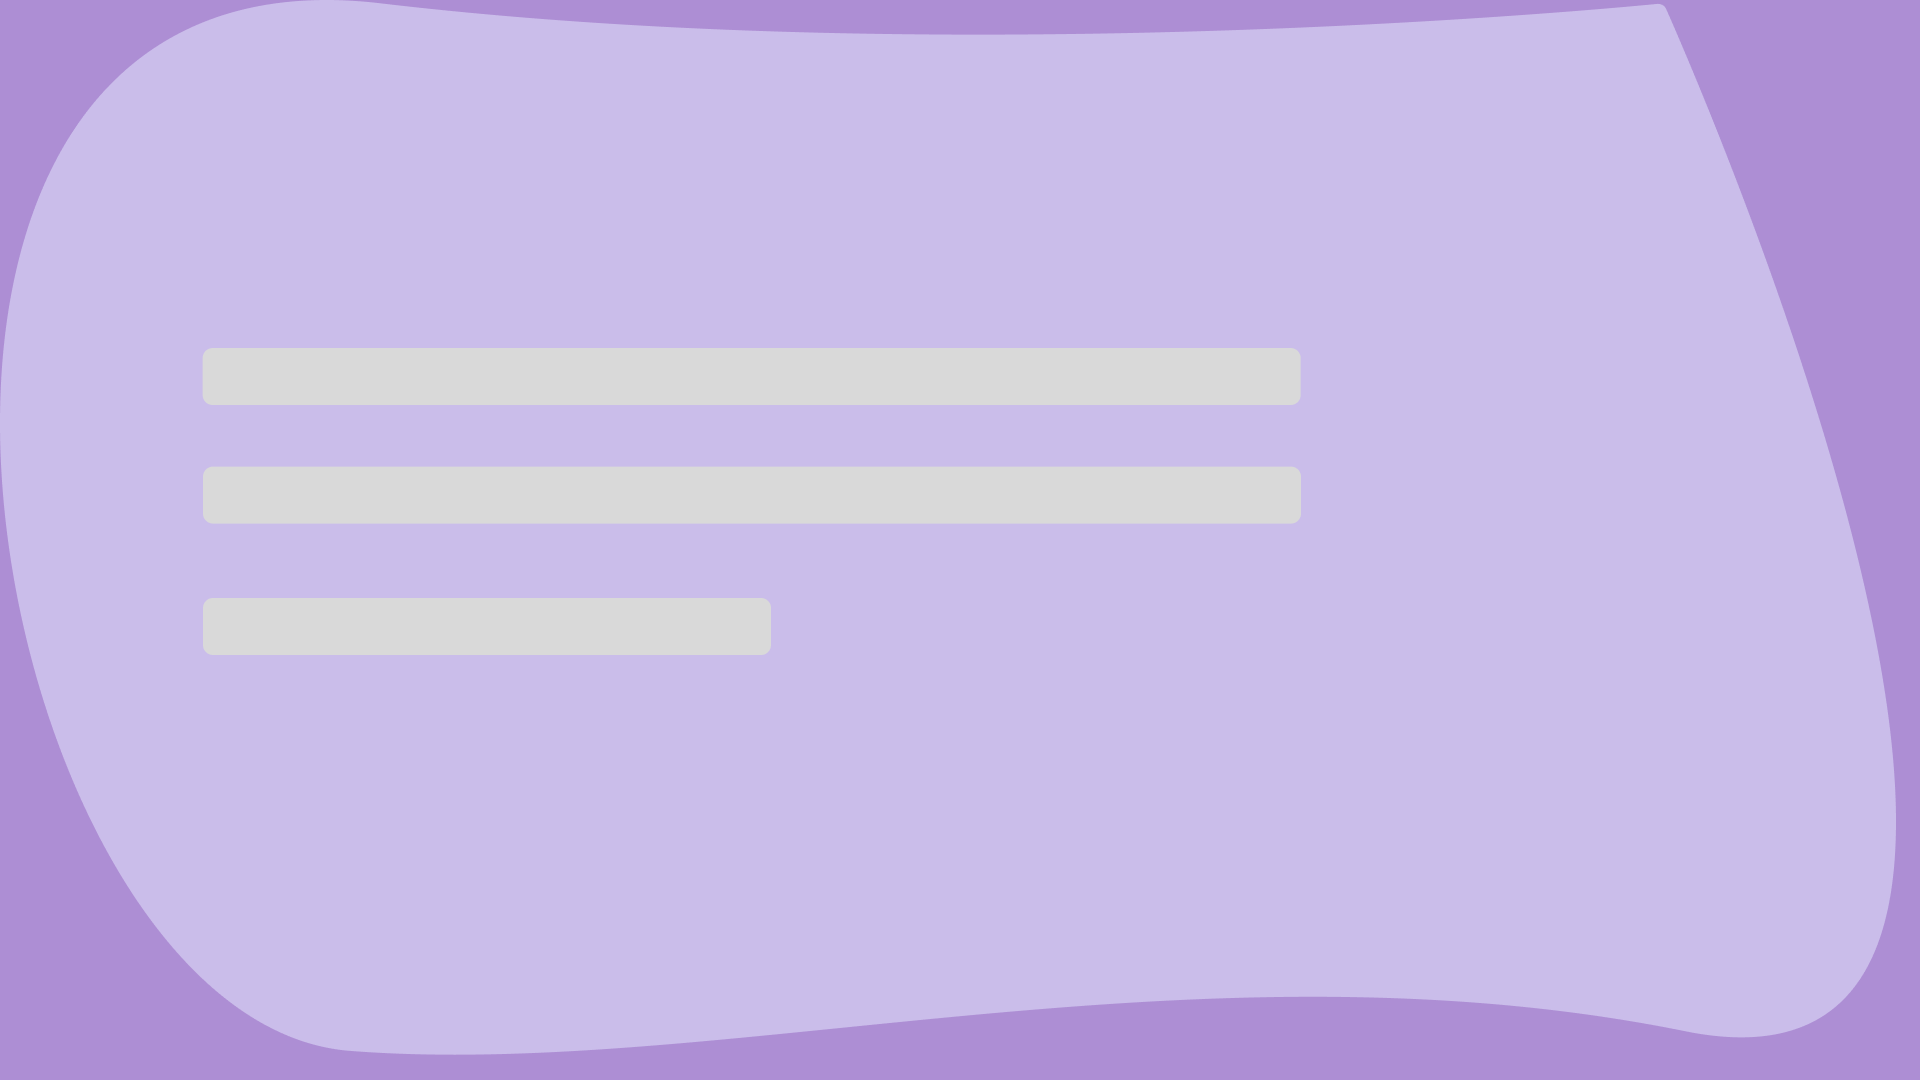
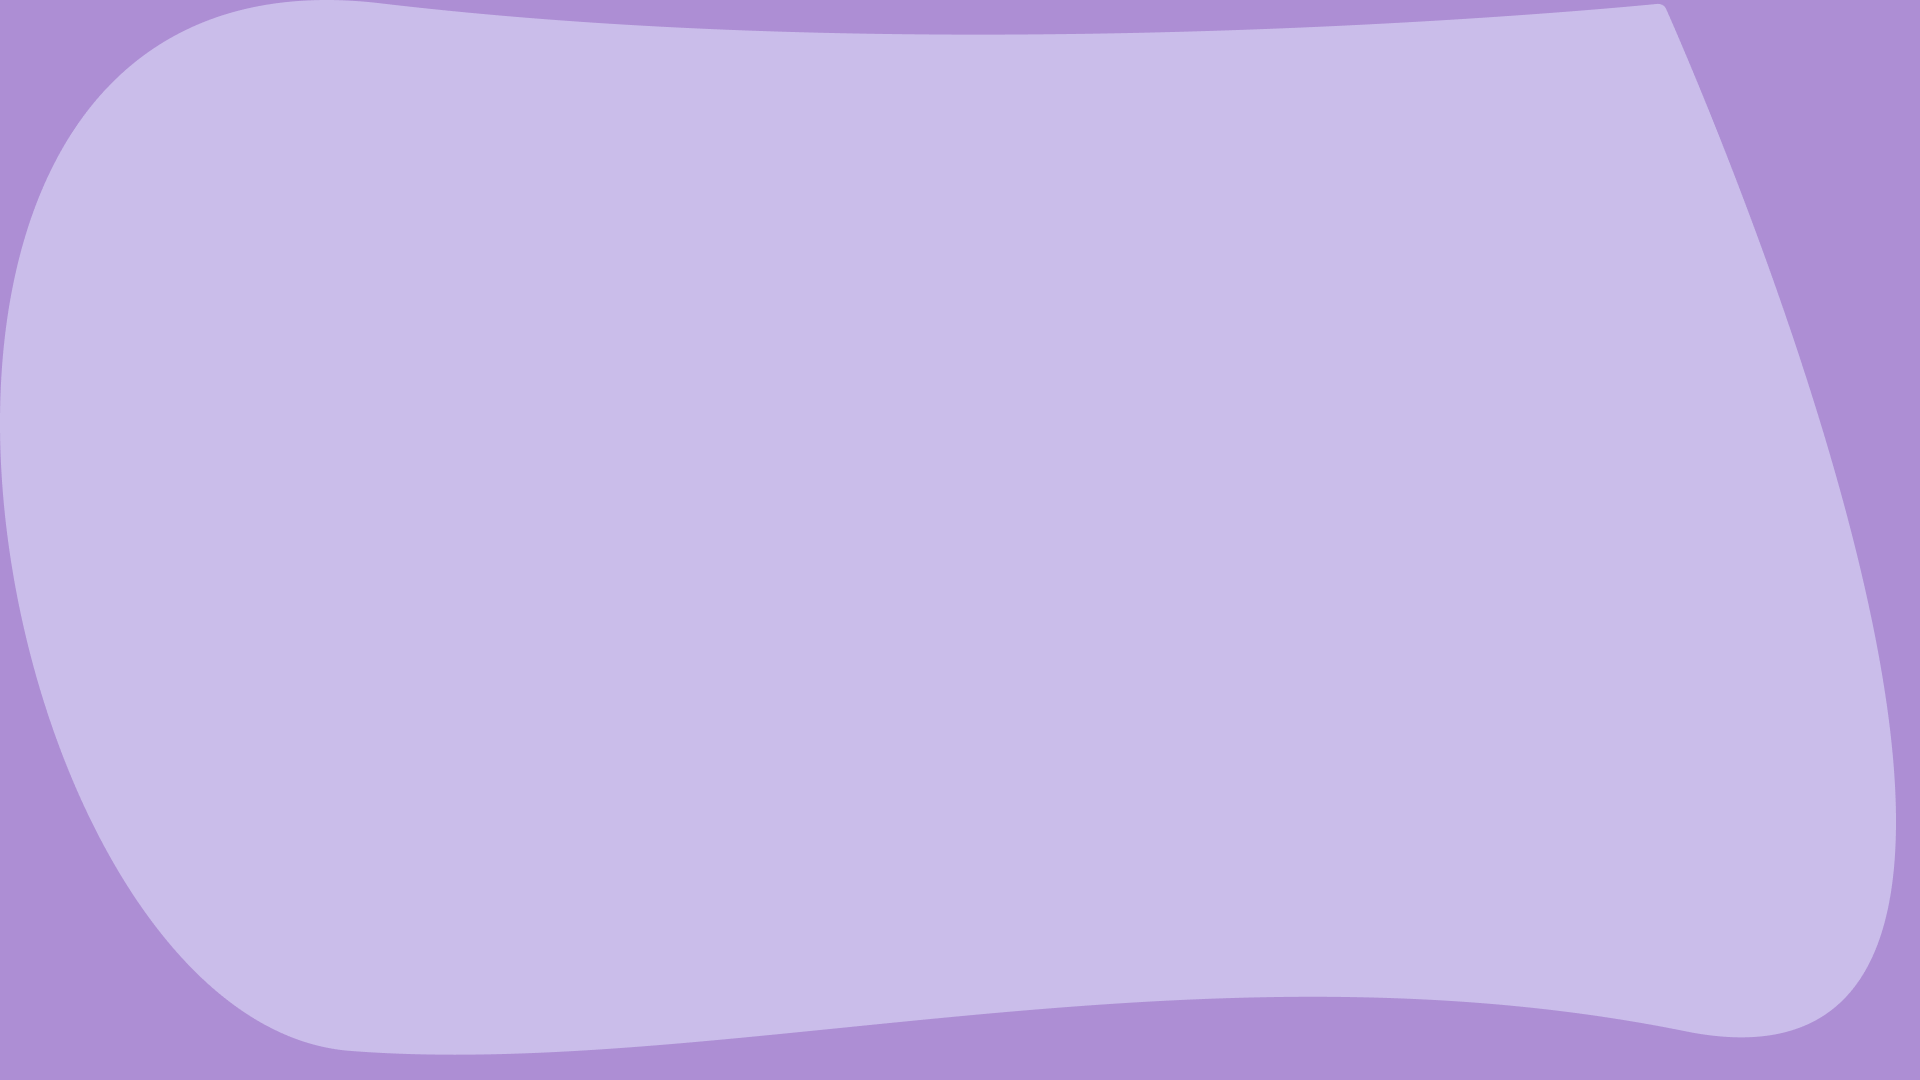
тест 2

Changed region(s): [[0.0938, 0.3056, 0.6875, 0.3972], [0.0938, 0.4278, 0.6875, 0.4889], [0.0938, 0.55, 0.4062, 0.6111]]

diff --git a/react_app/src/styles/App.css b/react_app/src/styles/App.css
@@ -12,20 +12,34 @@
 
 .App {
     width: 800px;
+    margin-left: 50px;
 }
 
 .post {
-    display: flex;
-    padding: 15px;
-    margin-top: 15px;
-    justify-content: space-evenly;
+    width: 100%;
+    position: relative;
+    top: -80px;
+    padding: 12px 20px;
+    margin: 0px 180px;
+    font-size: 30px;
+    font-family: "Times New Roman";
+    color: rgba(09, 11, 33, 0.658);
     
 }
 
+
 .bttn {
-    float: right;
-    margin-top: 30px;
+    
+    margin-top: -250px;
+    margin-left: 680px;
+    height: 60px;
+    width: 300px;
+    cursor: pointer;
+    background-color: rgb(17, 27, 71);
+    color: white;
+    font-size: 25px;
 }
+
 
 html {
     background-image: url(CHECK.png);
@@ -37,3 +51,39 @@ html {
     -o-background-size: cover;
     background-size: cover;
   }
+
+.input {
+    padding-left: 15px;
+    width: 1200px;
+    height: 50px;
+    border: 4px ;
+    background-color: rgb(217, 217, 217);
+    border-radius: 20px;
+    font-size: 30px;
+    font-family: "Times New Roman";
+    color: rgb(09, 11, 33);
+    
+}
+
+.Title {
+    text-align: center;
+    margin-left: 50%;
+    
+    top: -10px;
+    font-size: 50px;
+    font-family: "Times New Roman";
+    color: rgb(09, 11, 33);
+}
+
+.showStatus {
+    margin-left: 560px;
+    width: 500px;
+    margin-top: 70px;
+    font-size: 30px;
+    font-family: "Times New Roman";
+    color: rgb(09, 11, 33);
+    background-color: rgb(217, 217, 217);
+    height: 80px;
+    padding: 30px;
+    border-radius: 20px;
+}

diff --git a/react_app/src/App.js b/react_app/src/App.js
@@ -1,19 +1,38 @@
-import React, {useState} from "react";
+import React from "react";
 import PostItem from "./components/PostItem";
 import "./styles/App.css";
 
 function App() {
 
+  // function status () {
+  //     <div >
+  //     <PostItem post = {{body: 'Статус адреса' }}/>
+  //     <PostItem post = {{body: 'Статус билета' }}/>
+  //     </div>
+  // }
+
+  
+
   return (
     <div className="App">
       <PostItem post = {{title: 'Введите данные', body: 'Адрес' }}/>
       <PostItem post = {{body: 'Policy id' }}/>
-      <PostItem post = {{body: 'Название' }}/>
-        <div className="bttn">
-          <button>Проверить билет</button>
+        <div>
+          <button className="bttn">
+          Проверить билет
+          </button>
         </div>
+        <div className="showStatus" id="showResult">
+    <div>
+        <span>Статус адреса: </span> <span id="targetDay"></span>
+    </div>
+     <div>
+        <span>Статус билета: </span> <span id="targetRoom"></span>
+     </div>
+</div> 
+
     </div>
   );
 }
 
-export default App;
+export default App

diff --git a/react_app/src/components/Address.jsx b/react_app/src/components/Address.jsx
@@ -1,13 +1,11 @@
 import React, {useState} from "react";
 
 const Address = function () {
-    const [value, setValue] = useState('Input text');
+    const [value, setValue] = useState('');
 
    return (
     <div>
-        <h1>{value}</h1>
-
-        <input 
+        <input className="input" 
         type="text" 
         value={value}
         onChange={event => setValue(event.target.value)}/>

diff --git a/react_app/src/components/PostItem.jsx b/react_app/src/components/PostItem.jsx
@@ -6,7 +6,7 @@ const PostItem = (props) => {
         <div className="App">
       <div className="post">
         <div className="post__content">
-          <strong>{props.post.title}</strong>
+          <strong className="Title">{props.post.title}</strong>
           <div>
             {props.post.body}
             <Address/>
